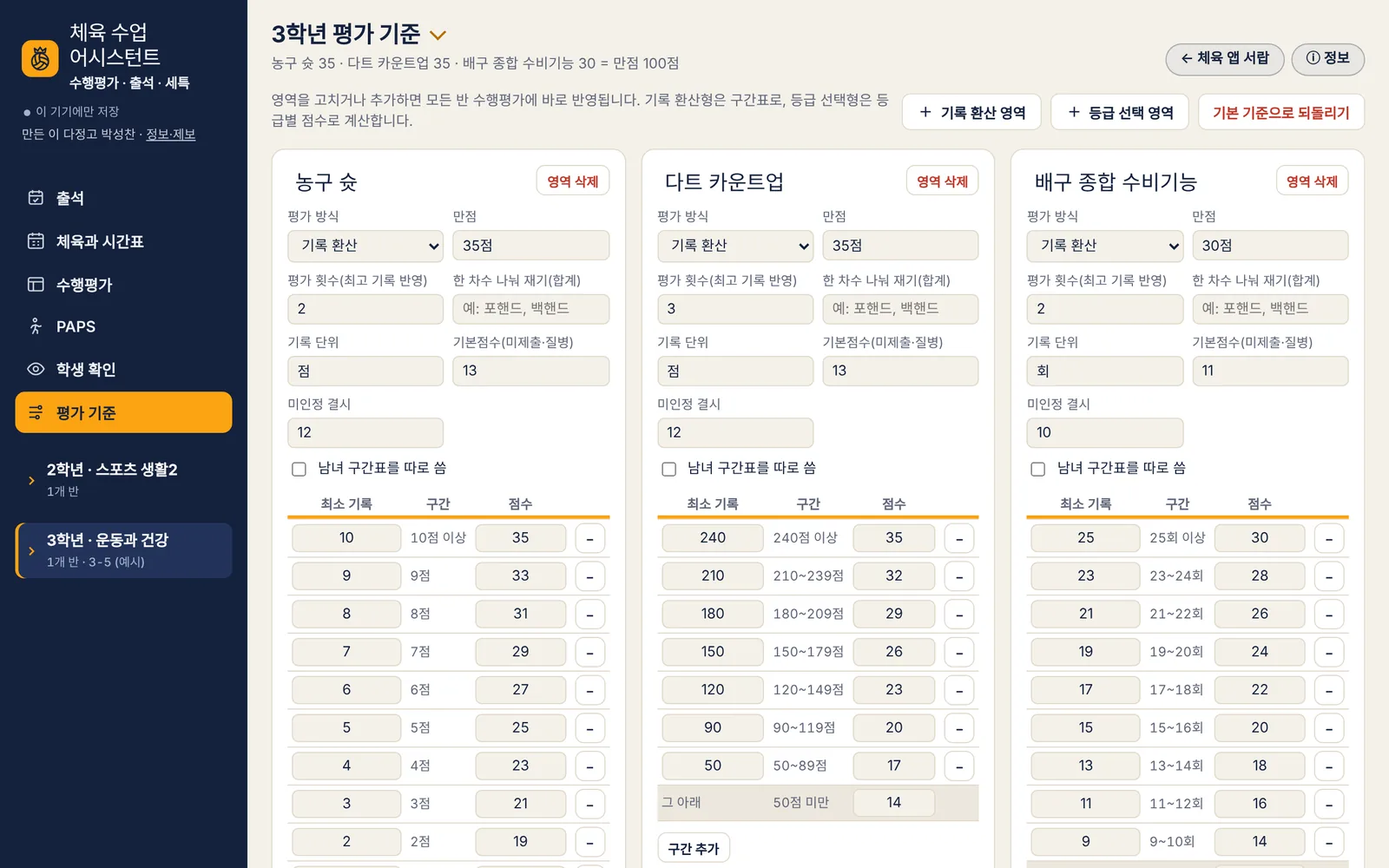
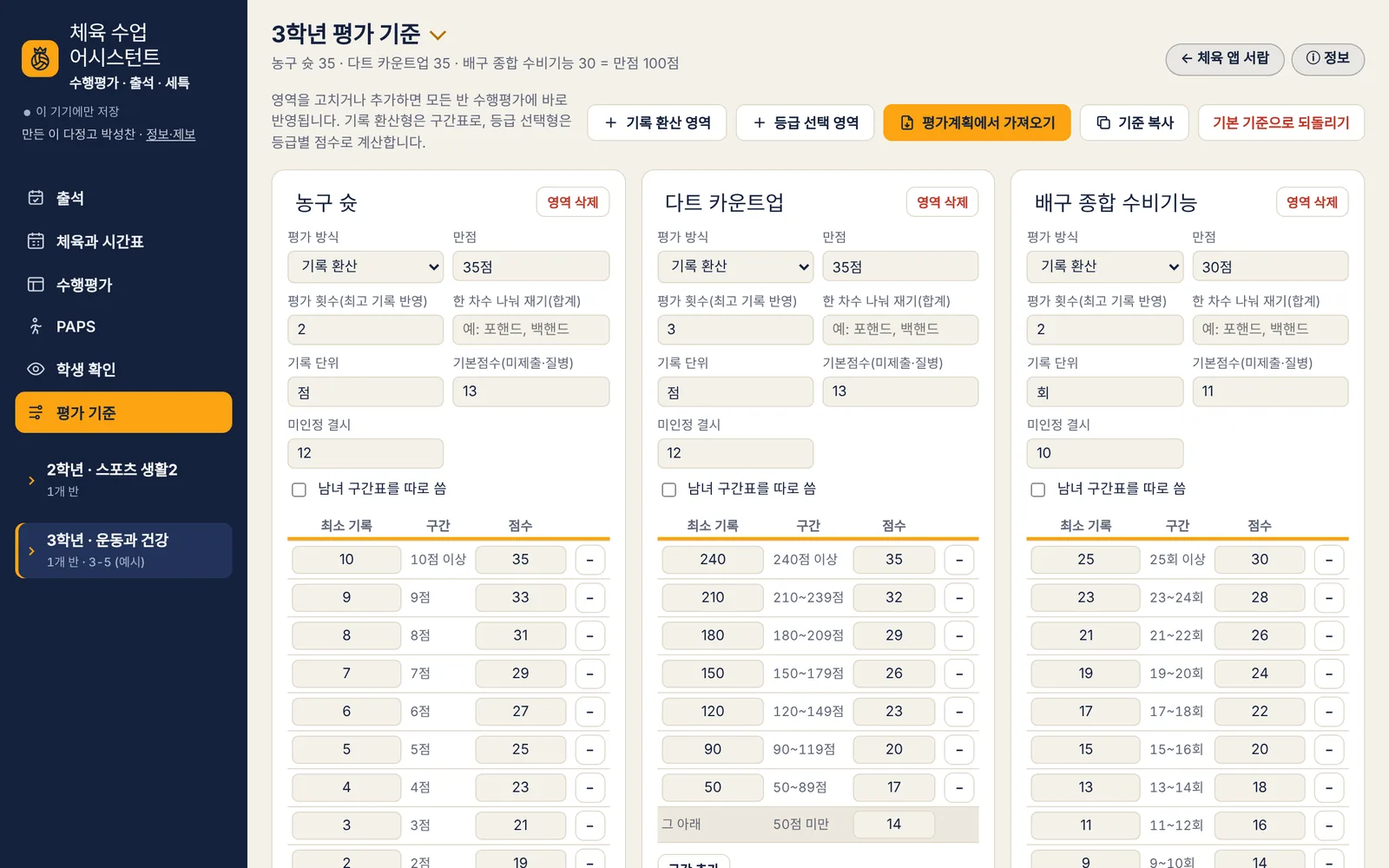
Add files via upload

diff --git a/guides/assistant.html b/guides/assistant.html
@@ -148,6 +148,24 @@ footer a{font-weight:700}
   a{color:inherit;text-decoration:none}
 }
 
+.setup{list-style:none;padding:0;margin:0;display:flex;flex-direction:column;gap:18px;counter-reset:su}
+.setup>li{counter-increment:su;display:grid;grid-template-columns:minmax(0,1fr) minmax(0,1.1fr);gap:20px;align-items:start;background:var(--tile);border-radius:22px;padding:22px;margin:0}
+.setup .su-t{display:flex;gap:10px;align-items:center;font-size:17px;font-weight:900;letter-spacing:-.02em;margin-bottom:6px}
+.setup .su-t::before{content:counter(su);width:30px;height:30px;flex:none;border-radius:50%;background:var(--ac);color:#fff;font-size:14px;display:flex;align-items:center;justify-content:center}
+.setup .su-d{font-size:14.5px;color:var(--ink-2)}
+.setup .su-d p{margin:0 0 8px}
+.setup .su-tips{margin:8px 0 0;padding:0;list-style:none;display:grid;gap:5px}
+.setup .su-tips li{margin:0;font-size:13.5px;padding-left:16px;position:relative;color:var(--ink-2)}
+.setup .su-tips li::before{content:"";position:absolute;left:3px;top:.62em;width:6px;height:6px;border-radius:50%;background:var(--ac)}
+.setup .su-img{display:flex;flex-direction:column;gap:10px}
+.setup .su-img a{display:block;border-radius:14px;overflow:hidden;border:1px solid var(--line);background:#fff;cursor:zoom-in}
+.setup .su-img img{display:block;width:100%;height:auto}
+.setup .tw{margin:10px 0 4px;background:#fff}
+.setup table{font-size:13px}
+.setup th,.setup td{padding:8px 10px}
+@media (max-width:760px){.setup>li{grid-template-columns:1fr;padding:18px}}
+@media print{.setup>li{break-inside:avoid;grid-template-columns:1fr 1fr}}
+
 .one{max-width:860px;margin:0 auto;padding:0 32px}
 .flow4{display:grid;grid-template-columns:repeat(2,minmax(0,1fr));gap:16px}
 .flow4 figure{margin:0;display:flex;flex-direction:column}
@@ -180,11 +198,12 @@ footer a{font-weight:700}
 </header>
 <div class="one"><main>
 <div class="hero"><div class="hero-ic" aria-hidden="true"><svg class="i" viewBox="0 0 24 24"><path d="M9 4h6v3H9z"/><path d="M15 5h2a2 2 0 0 1 2 2v12a2 2 0 0 1-2 2H7a2 2 0 0 1-2-2V7a2 2 0 0 1 2-2h2"/><path d="M9 12h6M9 16h4"/></svg></div><div><h1>체육 수업 어시스턴트 사용법</h1><p>출석부 파일로 반을 만들고 수행평가 기록·점수 환산, 출석, 학생 점수 확인, 관찰 메모·세특 초안, 나이스 업로드 파일까지 한 곳에서 처리해요.</p><div class="meta"><span class="chip">v1.0</span><span class="chip">설치·로그인 없음</span><span class="chip">기록은 이 기기에만 저장</span></div></div></div>
-<section class="s" style="margin-top:44px"><h2><span class="no">01</span>처음이라면</h2><ol class="steps"><li><div><b>예시 반으로 둘러보기</b><span>처음 열면 ‘3-5 (예시)’ 반이 들어 있어요. 왼쪽 메뉴의 탭을 하나씩 눌러 보세요.</span></div></li><li><div><b>둘러봤다면 ‘예시 지우기’</b><span>수행평가 화면 위쪽 노란 띠의 <span class="btnname">예시 지우기</span>를 누르면 예시 반이 사라져요.</span></div></li><li><div><b>명단 넣기에 출석부 엑셀 끌어다 놓기</b><span>나이스 출석부·수행평가 양식·성별 명렬표(.xlsx)를 넣으면 수업반별로 수행평가 표가 만들어져요. 여러 파일을 한 번에 넣어도 돼요.</span></div></li></ol></section>
-<section class="s"><h2><span class="no">02</span>이렇게 써요</h2><p class="lead">평가 기준을 정하고, 기록하고, 학생에게 확인받고, 나이스로 내보내는 순서예요.</p><div class="flow4"><figure><a class="shot" href="img/assistant/04-criteria.webp" target="_blank" rel="noopener" title="크게 보기"><img src="img/assistant/04-criteria.webp" alt="평가 기준 정하기" loading="lazy"></a><figcaption><b class="t"><i>1</i>평가 기준 정하기</b><span class="btnname">평가 기준</span>에서 영역마다 만점·평가 횟수·기록 단위·구간별 점수를 정해요. 기록 환산 영역과 등급 선택 영역을 섞어 쓸 수 있어요.</figcaption></figure><figure><a class="shot" href="img/assistant/01-assess.webp" target="_blank" rel="noopener" title="크게 보기"><img src="img/assistant/01-assess.webp" alt="기록 넣기" loading="lazy"></a><figcaption><b class="t"><i>2</i>기록 넣기</b><span class="btnname">수행평가</span>에 1차·2차 기록을 넣으면 가장 높은 기록이 점수로 환산돼요. 엑셀 한 열을 칸에 붙여 넣으면 아래로 채워져요.</figcaption></figure><figure><a class="shot" href="img/assistant/03-student.webp" target="_blank" rel="noopener" title="크게 보기"><img src="img/assistant/03-student.webp" alt="학생 확인" loading="lazy"></a><figcaption><b class="t"><i>3</i>학생 확인</b><span class="btnname">학생 확인</span>으로 학생에게 자기 점수를 한 명씩 보여 주고 <kbd>Enter</kbd>로 확인을 받아요. 관찰 메모도 이 화면에서 적어요.</figcaption></figure><figure><a class="shot" href="img/assistant/02-attend.webp" target="_blank" rel="noopener" title="크게 보기"><img src="img/assistant/02-attend.webp" alt="출석 체크" loading="lazy"></a><figcaption><b class="t"><i>4</i>출석 체크</b><span class="btnname">출석</span>에서 날짜를 추가해 체크하고, 나이스에 옮긴 날은 ‘나이스 입력 완료’로 표시해 둬요.</figcaption></figure></div></section>
-<section class="s"><h2><span class="no">03</span>알아 두면 좋은 기능</h2><ul class="chk"><li><b>상태 표시</b> — 정상(기록 환산) · 기본(참여했으나 미제출·장기 질병 결시) · 미인정(장기 미인정 결시)으로 학생마다 상태를 골라요.</li><li><b>측정 모드</b> — 휴대폰 한 화면에서 학생을 넘기며 기록만 빠르게 넣어요. 체육관에서 바로 입력할 때 좋아요.</li><li><b>나이스 파일 내려받기</b> — 환산 점수를 나이스 수행평가 업로드 양식으로 받아요.</li><li><b>··· 메뉴</b> — 세특 초안 모아 보기, 관찰 메모·세특 초안 엑셀 받기, 점수 변경 이력, 백업 파일 내려받기·불러오기, 반 추가·이름 변경.</li><li><b>체육과 시간표</b> — 나이스 인증키와 학교 정보를 한 번 설정하면 내 시간표와 다른 체육 선생님 시간표를 받아 와요.</li><li><b>PAPS 탭</b> — 같은 기기의 PAPS 기록부와 연결해 수업 중에도 PAPS 기록을 넣고 확인해요.</li></ul></section>
-<section class="s"><h2><span class="no">04</span>꼭 지켜 주세요</h2><div class="note warn"><svg class="i" viewBox="0 0 24 24" aria-hidden="true"><path d="M12 3l9 16H3z"/><path d="M12 10v4M12 17h.01"/></svg><div><ul><li>기록은 <b>입력한 기기의 브라우저에만</b> 저장돼요. 수업이 끝나면 ··· 메뉴에서 <b>백업 파일</b>을 받아 두세요.</li><li>같은 수업반 출석부를 다시 넣어도 이미 입력한 기록은 그대로 남아요. 명단이 바뀌었을 때 안심하고 다시 넣으세요.</li><li>학생 확인 화면을 TV에 띄울 때는 다른 학생 점수가 보이지 않는지 한 번 확인하세요.</li></ul></div></div></section>
-<section class="s"><h2><span class="no">05</span>내 수업에 맞게 고쳐 쓰기</h2>
+<section class="s" style="margin-top:44px"><h2><span class="no">01</span>처음이라면</h2><ol class="steps"><li><div><b>예시 반으로 둘러보기</b><span>처음 열면 ‘3-5 (예시)’ 반이 들어 있어요. 왼쪽 메뉴의 탭을 하나씩 눌러 보세요.</span></div></li><li><div><b>둘러봤다면 ‘예시 지우기’</b><span>수행평가 화면 위쪽 노란 띠의 <span class="btnname">예시 지우기</span>를 누르면 예시 반이 사라져요. 이어서 아래 ‘수행평가 세팅하기’ 순서대로 준비해요.</span></div></li></ol></section>
+<section class="s" id="setup"><h2><span class="no">02</span>수행평가 세팅하기</h2><p class="lead">평가계획을 넣어 기준을 만들고, 출석부로 반을 만들면 바로 기록할 수 있어요. 처음 한 번만 하면 학기 내내 그대로 써요.</p><ol class="setup"><li><div><div class="su-t">평가 기준을 넣을 학년 고르기</div><div class="su-d"><p>왼쪽 메뉴 아래의 <b>2학년 · 스포츠 생활2</b>, <b>3학년 · 운동과 건강</b>처럼 학년(과목)마다 평가 기준이 따로 있어요. 기준을 넣을 학년을 누르고 <span class="btnname">평가 기준</span> 탭을 열어요. 여기서 정한 기준은 그 학년의 모든 반 수행평가에 함께 쓰여요.</p></div></div><div class="su-img"><a href="img/assistant/s4-crit-after.webp" target="_blank" rel="noopener" title="크게 보기"><img src="img/assistant/s4-crit-after.webp" alt="평가 기준을 넣을 학년 고르기" loading="lazy"></a></div></li><li><div><div class="su-t">평가계획에서 가져오기 — AI에게 맡기기</div><div class="su-d"><p><span class="btnname">평가계획에서 가져오기</span> → <span class="btnname">AI 요청문 복사</span>를 누르고, 학교 평가계획(PDF·사진·한글 파일)과 복사한 요청문을 Claude 같은 AI 채팅에 함께 보내요. AI가 돌려준 답을 통째로 복사해 2번 칸에 붙여 넣고 <span class="btnname">미리보기</span>를 눌러요.</p><ul class="su-tips"><li>AI에는 평가계획만 올리세요. 학생 명단이나 점수 파일은 올리지 않아요.</li><li>AI 답에 설명 글이나 ```json 표시가 섞여 있어도 그대로 붙여 넣으면 돼요.</li></ul></div></div><div class="su-img"><a href="img/assistant/s1-import-paste.webp" target="_blank" rel="noopener" title="크게 보기"><img src="img/assistant/s1-import-paste.webp" alt="평가계획에서 가져오기 — AI에게 맡기기" loading="lazy"></a></div></li><li><div><div class="su-t">미리보기로 평가계획과 맞춰 보기</div><div class="su-d"><p>영역마다 구간표와 기본점수가 정리돼 보여요. 평가계획 표와 나란히 놓고 아래를 확인하세요.</p><ul class="su-tips"><li>맨 위 <b>합계</b>가 100점인지 (아니면 주황 글씨로 알려 줘요)</li><li>영역별 <b>배점</b>과 구간표 맨 위 점수</li><li>맨 끝 <b>그 아래</b> 점수 — ‘1개 이하’, ‘0개’ 같은 최저 구간</li><li>남녀 기준이 다르면 <b>남·여</b> 줄이 따로 있는지</li><li><b>기본점수</b>(미제출·질병)와 <b>미인정 결시</b> 점수</li><li>노란 <b>확인해 주세요</b> 상자가 있으면 그 내용</li></ul></div></div><div class="su-img"><a href="img/assistant/s2-import-preview.webp" target="_blank" rel="noopener" title="크게 보기"><img src="img/assistant/s2-import-preview.webp" alt="미리보기로 평가계획과 맞춰 보기" loading="lazy"></a></div></li><li><div><div class="su-t">적용하기</div><div class="su-d"><p><b>이 학년 기준을 이것으로 바꾸기</b>를 고르고 <span class="btnname">적용</span>. 이름이 같은 영역의 학생 기록은 그대로 남아요. 기존 영역에 하나만 더할 때는 <b>지금 기준 뒤에 영역으로 더하기</b>를 골라요.</p><ul class="su-tips"><li>학생 기록이 있는 영역이 새 기준에서 빠지면 적용 전에 한 번 더 물어봐요.</li><li>기록이 있는 영역은 평가 횟수가 바뀌지 않게 지켜요.</li></ul></div></div><div class="su-img"><a href="img/assistant/s3-import-apply.webp" target="_blank" rel="noopener" title="크게 보기"><img src="img/assistant/s3-import-apply.webp" alt="적용하기" loading="lazy"></a></div></li><li><div><div class="su-t">평가 기준 화면에서 다듬기</div><div class="su-d"><p>가져온 기준은 칸을 눌러 바로 고칠 수 있어요. AI 없이 처음부터 만들 때는 <span class="btnname">+ 기록 환산 영역</span> / <span class="btnname">+ 등급 선택 영역</span>으로 추가해요.</p><div class="tw"><table><thead><tr><th>평가 방식</th><th>이럴 때</th><th>정하는 것</th></tr></thead><tbody><tr><td>기록 환산</td><td>성공 개수·횟수·점수·거리처럼 기록 구간으로 점수를 줄 때</td><td>최소 기록 → 점수 구간표, ‘그 아래’ 점수, 평가 횟수(최고 기록 반영), 기록 단위</td></tr><tr><td>등급 선택</td><td>채점 항목마다 기준을 골라 점수를 더할 때 (글쓰기·발표 등)</td><td>항목과 기준별 점수</td></tr><tr><td>점수 직접 입력</td><td>위 둘로 나타내기 어려울 때</td><td>만점, 입력 가능한 최저 점수</td></tr></tbody></table></div><ul class="su-tips"><li><b>평가 횟수</b>: 여러 번 측정해 가장 높은 기록을 반영해요.</li><li><b>한 차수 나눠 재기</b>: ‘포핸드, 백핸드’처럼 적으면 한 번 측정할 때 두 칸에 나눠 넣고 합계로 점수를 내요.</li><li><b>남녀 구간표를 따로 씀</b>: 남학생·여학생 구간표가 따로 생겨요.</li></ul></div></div><div class="su-img"><a href="img/assistant/04-criteria.webp" target="_blank" rel="noopener" title="크게 보기"><img src="img/assistant/04-criteria.webp" alt="평가 기준 화면에서 다듬기" loading="lazy"></a></div></li><li><div><div class="su-t">명단 넣기</div><div class="su-d"><p><span class="btnname">수행평가</span> 탭 → <span class="btnname">명단 넣기</span>에 나이스 출석부 엑셀을 끌어다 놓으면 수업반별로 수행평가 표가 만들어져요. 여러 반 파일을 한 번에 넣어도 돼요.</p><ul class="su-tips"><li>학년 전체 명렬표(학년·반·번호·성명·성별)를 함께 넣으면 성별이 채워져 남녀 구간표가 적용돼요.</li><li>나이스에서 내려받은 빈 수행평가 양식을 넣어 두면 나중에 나이스 파일의 영역 이름이 정확히 맞아요.</li><li>같은 반 출석부를 다시 넣어도 입력한 기록은 그대로 남아요.</li></ul></div></div><div class="su-img"><a href="img/assistant/s5-roster.webp" target="_blank" rel="noopener" title="크게 보기"><img src="img/assistant/s5-roster.webp" alt="명단 넣기" loading="lazy"></a></div></li><li><div><div class="su-t">기록하고 나이스로 내보내기</div><div class="su-d"><p>표의 1차·2차 칸에 기록을 넣으면 점수가 바로 환산돼요. 체육관에서는 <span class="btnname">측정 모드</span>로 휴대폰에서 한 명씩 넘기며 넣어요. 평가가 끝나면 <span class="btnname">나이스 파일 내려받기</span>에서 영역이 ‘맞음’인지 확인하고 .xlsx로 받아 나이스에 올려요.</p><ul class="su-tips"><li>상태: <b>정상</b>(기록으로 환산) · <b>기본</b>(참여했으나 미제출·장기 질병 결시 → 기본점수) · <b>미인정</b>(장기 미인정 결시 → 기본점수−1)</li><li>엑셀 한 열을 복사해 칸에 붙여 넣으면 아래로 한 번에 채워져요.</li></ul></div></div><div class="su-img"><a href="img/assistant/01-assess.webp" target="_blank" rel="noopener" title="크게 보기"><img src="img/assistant/01-assess.webp" alt="기록하고 나이스로 내보내기" loading="lazy"></a><a href="img/assistant/s7-export.webp" target="_blank" rel="noopener" title="크게 보기"><img src="img/assistant/s7-export.webp" alt="기록하고 나이스로 내보내기" loading="lazy"></a></div></li></ol></section>
+<section class="s"><h2><span class="no">03</span>수업 중에 쓰기</h2><p class="lead">세팅이 끝나면 수업 시간에는 이렇게 써요.</p><div class="flow4"><figure><a class="shot" href="img/assistant/03-student.webp" target="_blank" rel="noopener" title="크게 보기"><img src="img/assistant/03-student.webp" alt="학생 확인" loading="lazy"></a><figcaption><b class="t"><i>1</i>학생 확인</b><span class="btnname">학생 확인</span>으로 학생에게 자기 점수를 한 명씩 보여 주고 <kbd>Enter</kbd>로 확인을 받아요. 관찰 메모도 이 화면에서 적어요.</figcaption></figure><figure><a class="shot" href="img/assistant/s6-measure.webp" target="_blank" rel="noopener" title="크게 보기"><img src="img/assistant/s6-measure.webp" alt="측정 모드" loading="lazy"></a><figcaption><b class="t"><i>2</i>측정 모드</b>휴대폰 한 화면에서 학생을 넘기며 −1/+1로 기록하고, 상태와 관찰 태그(기능 향상, 협력·배려 등)를 눌러 둬요.</figcaption></figure><figure><a class="shot" href="img/assistant/02-attend.webp" target="_blank" rel="noopener" title="크게 보기"><img src="img/assistant/02-attend.webp" alt="출석 체크" loading="lazy"></a><figcaption><b class="t"><i>3</i>출석 체크</b><span class="btnname">출석</span>에서 날짜를 추가해 체크하고, 나이스에 옮긴 날은 ‘나이스 입력 완료’로 표시해 둬요.</figcaption></figure><figure><a class="shot" href="img/assistant/05-time.webp" target="_blank" rel="noopener" title="크게 보기"><img src="img/assistant/05-time.webp" alt="체육과 시간표" loading="lazy"></a><figcaption><b class="t"><i>4</i>체육과 시간표</b>나이스 인증키와 학교 정보를 한 번 설정하면 내 시간표와 다른 체육 선생님 시간표를 받아 와요.</figcaption></figure></div></section>
+<section class="s"><h2><span class="no">04</span>알아 두면 좋은 기능</h2><ul class="chk"><li><b>기준 복사</b> — 지금 평가 기준을 글로 복사해 동료 선생님께 보내면, 그대로 ‘평가계획에서 가져오기’에 붙여 넣어 쓸 수 있어요.</li><li><b>··· 메뉴</b> — 세특 초안 모아 보기, 관찰 메모·세특 초안 엑셀 받기, 점수 변경 이력, 백업 파일 내려받기·불러오기, 반 추가·이름 변경.</li><li><b>PAPS 탭</b> — 같은 기기의 PAPS 기록부와 연결해 수업 중에도 PAPS 기록을 넣고 확인해요.</li></ul></section>
+<section class="s"><h2><span class="no">05</span>꼭 지켜 주세요</h2><div class="note warn"><svg class="i" viewBox="0 0 24 24" aria-hidden="true"><path d="M12 3l9 16H3z"/><path d="M12 10v4M12 17h.01"/></svg><div><ul><li>기록은 <b>입력한 기기의 브라우저에만</b> 저장돼요. 수업이 끝나면 ··· 메뉴에서 <b>백업 파일</b>을 받아 두세요.</li><li>같은 수업반 출석부를 다시 넣어도 이미 입력한 기록은 그대로 남아요. 명단이 바뀌었을 때 안심하고 다시 넣으세요.</li><li>학생 확인 화면을 TV에 띄울 때는 다른 학생 점수가 보이지 않는지 한 번 확인하세요.</li></ul></div></div></section>
+<section class="s"><h2><span class="no">06</span>내 수업에 맞게 고쳐 쓰기</h2>
 <p><span class="btnname">HTML 받기</span>로 파일을 받아 Claude 같은 AI에게 첨부하고, 바꾸고 싶은 점을 한 가지씩 말해 보세요. 고친 파일은 더블클릭으로 바로 써요.</p>
 <div class="prompt"><span class="lbl">예시</span>첨부한 체육 수업 어시스턴트의 수행평가 표에서 총점 옆에 ‘반 평균과의 차이’ 열을 추가해 줘. 나이스 파일 내려받기에는 이 열이 들어가지 않게 해 줘.<button type="button">복사</button></div>
 <p style="font-size:14px;color:var(--ink-2)">원본 파일은 따로 보관하고, 학생 이름이 담긴 백업 파일은 AI에 올리지 마세요.</p></section>

diff --git a/apps/assistant.html b/apps/assistant.html
@@ -380,6 +380,24 @@ tbody tr:hover td.tot{background:var(--accent-soft)}
 .panel h2{font-family:var(--f-display);font-weight:400;font-size:20px;margin:0}
 .panel p{margin:0;color:var(--muted);font-size:13px;max-width:70ch}
 textarea{width:100%;min-height:150px;border:1px solid var(--line);background:var(--bg);border-radius:8px;padding:10px;font-variant-numeric:tabular-nums}
+.ci-step{display:grid;grid-template-columns:28px minmax(0,1fr);gap:10px;align-items:start}
+.ci-step>b{width:26px;height:26px;border-radius:50%;background:var(--navy);color:#fff;display:flex;align-items:center;justify-content:center;font-size:13px}
+.ci-step p{margin:2px 0 6px}
+.ci-tx{width:100%;min-height:130px;resize:vertical;font:13px/1.5 ui-monospace,SFMono-Regular,Menlo,Consolas,monospace;padding:10px 12px;box-sizing:border-box}
+.ci-prompt{white-space:pre-wrap;font-size:12.5px;line-height:1.55;background:var(--bg);border-radius:10px;padding:10px 12px;max-height:220px;overflow:auto;margin:6px 0 0}
+.ci-prev{display:flex;flex-direction:column;gap:8px}
+.ci-area{border:1px solid var(--line);border-radius:12px;padding:10px 12px;display:flex;flex-direction:column;gap:4px}
+.ci-area h4{margin:0;font-size:15px;display:flex;gap:8px;align-items:baseline;flex-wrap:wrap}
+.ci-area h4 em{font-style:normal;font-size:12px;font-weight:600;color:var(--muted)}
+.ci-area .ci-kv{font-size:13px;color:var(--muted)}
+.ci-rows{display:flex;flex-wrap:wrap;gap:4px;font-size:12px}
+.ci-rows span{background:var(--bg);border-radius:6px;padding:2px 7px;white-space:nowrap}
+.ci-warn{background:#FEF6E7;color:#6B3A07;border-radius:10px;padding:8px 12px;font-size:13px}
+.ci-warn ul{margin:4px 0 0;padding-left:18px}
+.ci-err{background:#FDECEC;color:#8A1C1C;border-radius:10px;padding:8px 12px;font-size:13px}
+.ci-total{font-weight:700}
+.ci-sub{font-size:12.5px;color:var(--muted)}
+.ci-mode{display:flex;flex-direction:column;gap:4px;font-size:14px}
 .crit{display:grid;grid-template-columns:repeat(auto-fit,minmax(300px,1fr));gap:14px;align-items:start}
 .card{background:var(--surface);border:1px solid var(--line);border-radius:12px;padding:14px;display:flex;flex-direction:column;gap:10px;min-width:0}
 .card .head{display:flex;gap:8px;align-items:center}
@@ -1631,6 +1649,8 @@ th.at small.sp{display:block;font-size:11px;font-weight:600;line-height:1.1;opac
       <p class="sub" style="margin:0;flex:1;min-width:220px">영역을 고치거나 추가하면 모든 반 수행평가에 바로 반영됩니다. 기록 환산형은 구간표로, 등급 선택형은 등급별 점수로 계산합니다.</p>
       <button class="btn" id="addRecordArea"><svg viewBox="0 0 24 24"><path d="M12 5v14M5 12h14"/></svg>기록 환산 영역</button>
       <button class="btn" id="addGradeArea"><svg viewBox="0 0 24 24"><path d="M12 5v14M5 12h14"/></svg>등급 선택 영역</button>
+      <button class="btn primary" id="critImport"><svg viewBox="0 0 24 24"><path d="M14 3H7a2 2 0 0 0-2 2v14a2 2 0 0 0 2 2h10a2 2 0 0 0 2-2V8z"/><path d="M14 3v5h5M12 18v-6M9 15l3 3 3-3"/></svg>평가계획에서 가져오기</button>
+      <button class="btn" id="critExport"><svg viewBox="0 0 24 24"><rect x="8" y="8" width="12" height="12" rx="2"/><path d="M16 8V6a2 2 0 0 0-2-2H6a2 2 0 0 0-2 2v8a2 2 0 0 0 2 2h2"/></svg>기준 복사</button>
       <button class="btn danger" id="resetCrit">기본 기준으로 되돌리기</button>
     </div>
     <div class="crit" id="critList"></div>
@@ -2538,6 +2558,163 @@ $('critList').addEventListener('click',e=>{
   }else return;
   save();renderCrit();renderClassSel();renderSheet();
 });
+
+/* ---------- 평가계획에서 기준 가져오기 · 기준 복사 ---------- */
+const CI_FMT='pe-criteria-v1';
+const CI_PROMPT=`첨부한 평가계획에서 수행평가 영역별 채점 기준을 찾아, 아래 형식의 JSON 하나로만 답해 주세요. 설명 문장 없이 JSON만 주세요.
+
+[규칙]
+1. 영역마다 type을 하나 고릅니다.
+ - "record"(기록 환산): 성공 개수·횟수·점수·거리처럼 기록 구간에 따라 점수를 주는 영역.
+   · rows: [최소 기록, 점수]를 높은 기록부터. "12개 이상"은 [12, 점수], "10~11개"는 아래쪽 숫자 [10, 점수].
+   · below: 가장 낮은 구간("1개 이하", "49점 이하", "0개" 등)의 점수.
+   · 남녀 기준이 다르면 rows·below는 남학생, rowsF·belowF는 여학생 기준.
+   · unit: 기록 단위(개, 회, 점, m 등).
+   · rounds: 평가 기회 수(여러 번 측정해 가장 높은 기록을 반영하는 횟수). 한 번이면 1.
+   · split: 한 번 측정할 때 여러 부분 기록을 더해 쓰는 경우에만(예: 포핸드 5회 + 백핸드 5회) ["포핸드","백핸드"]처럼 적습니다. 아니면 빼세요.
+ - "grade"(등급 선택): 채점 항목마다 기준 문장을 골라 점수를 더하는 영역. items 안에 항목마다 options를 [기준 요약, 점수]로, 높은 점수부터.
+ - "score"(점수 직접 입력): 위 둘로 나타낼 수 없는 영역. max는 만점, min은 수행평가에 참여한 학생이 받는 최저 점수.
+2. base: "수행과정에는 참여했으나 결과물 미제출·장기 질병 결시" 기본점수. absent: "장기 미인정 결시" 점수. 괄호 속 백분율은 빼고 숫자만.
+3. max: 평가계획에 적힌 영역 배점(만점).
+4. 기록이 낮을수록 좋은 영역(달리기 시간 등)은 "score"로 적고 note에 그 사실을 적습니다.
+5. 대체 영역, 장애 학생 등 조정 기준은 넣지 않습니다.
+6. 숫자를 확신하기 어렵거나 표가 잘려 보이면 그 영역의 note에 적어 주세요.
+
+[형식]
+{"format":"${CI_FMT}","areas":[
+ {"name":"탁구 서브","type":"record","max":30,"unit":"개","rounds":3,"rows":[[12,30],[10,27],[8,24]],"below":12,"base":9,"absent":8},
+ {"name":"탁구 스트로크","type":"record","max":30,"unit":"개","rounds":3,"rows":[[50,30],[40,28]],"below":12,"rowsF":[[30,30],[25,28]],"belowF":12,"base":10,"absent":9},
+ {"name":"배드민턴 헤어핀","type":"record","max":30,"unit":"개","rounds":2,"split":["포핸드","백핸드"],"rows":[[10,30],[9,28]],"below":10,"base":8,"absent":7},
+ {"name":"글쓰기","type":"grade","max":10,"items":[{"name":"입장과 근거","options":[["입장과 근거 모두 명확",5],["둘 중 하나만",4]]},{"name":"분량","options":[["300자 이상",5],["200~299자",4]]}],"base":3,"absent":2}
+]}
+(위 숫자는 형식 예시입니다. 실제 값은 첨부한 평가계획에서 가져오세요.)`;
+const ciNum=v=>{if(typeof v==='number')return isFinite(v)?v:NaN;const m=String(v??'').replace(/,/g,'').match(/-?\d+(?:\.\d+)?/);return m?Number(m[0]):NaN};
+const ciNn=t=>String(t||'').replace(/\s+/g,'').toLowerCase();
+function ciExtract(txt){
+  let t=String(txt||'').replace(/[“”]/g,'"').replace(/[‘’]/g,"'").replace(/```[a-zA-Z]*/g,'');
+  const a=t.indexOf('{'),b=t.lastIndexOf('}');if(a<0||b<=a)throw new Error('붙여 넣은 글에서 { … } 형식을 찾지 못했습니다. AI 답을 처음부터 끝까지 그대로 붙여 넣어 주세요.');
+  t=t.slice(a,b+1);
+  try{return JSON.parse(t)}catch(e){
+    try{return JSON.parse(t.replace(/,\s*([}\]])/g,'$1'))}catch(e2){throw new Error('형식이 조금 어긋나 읽지 못했습니다. AI에게 “JSON 형식만 다시 보여 줘”라고 요청한 뒤 다시 붙여 넣어 주세요.')}
+  }
+}
+function ciRows(arr,lbl,warn){
+  if(!Array.isArray(arr)||!arr.length)return null;
+  const rows=arr.map(r=>Array.isArray(r)?{min:ciNum(r[0]),score:ciNum(r[1])}:{min:ciNum(r&&r.min),score:ciNum(r&&r.score)}).filter(r=>!isNaN(r.min)&&!isNaN(r.score));
+  if(rows.length!==arr.length)warn.push(`${lbl}: 숫자가 아닌 구간 ${arr.length-rows.length}개는 뺐습니다`);
+  rows.sort((x,y)=>y.min-x.min);
+  for(let i=1;i<rows.length;i++){if(rows[i].min===rows[i-1].min)warn.push(`${lbl}: 최소 기록 ${rows[i].min}이 두 번 나옵니다`);if(rows[i].score>rows[i-1].score)warn.push(`${lbl}: 기록이 낮은데 점수가 더 높은 구간이 있습니다 (${rows[i].min} → ${rows[i].score}점)`)}
+  return rows;
+}
+function ciParse(txt){
+  const raw=ciExtract(txt);const list=Array.isArray(raw)?raw:(raw.areas||raw.criteria||raw['영역']);
+  if(!Array.isArray(list)||!list.length)throw new Error('영역(areas) 목록이 비어 있습니다.');
+  const out=[];
+  list.forEach((x,k)=>{
+    const warn=[],errs=[];const name=String(x.name||x['영역명']||'').trim()||`영역 ${k+1}`;
+    let type=String(x.type||'').trim();type={'기록 환산':'record','기록':'record','등급 선택':'grade','등급':'grade','점수 직접 입력':'score','점수':'score'}[type]||type;
+    const a={name,type};
+    if(type==='record'){
+      a.unit=String(x.unit||'').trim();
+      const rounds=Math.max(1,Math.min(6,Math.round(ciNum(x.rounds??x.attempts??1))||1));
+      const split=Array.isArray(x.split)?x.split.map(v=>String(v).trim()).filter(Boolean):[];
+      if(split.length>1){a.split=split;a.splitAuto=1}
+      a.attempts=rounds*(split.length>1?split.length:1);
+      a.rows=ciRows(x.rows,'구간',warn);a.below=ciNum(x.below);
+      if(!a.rows)errs.push('기록 구간(rows)이 없습니다');
+      if(isNaN(a.below)){if(a.rows&&a.rows.length){a.below=a.rows[a.rows.length-1].score;warn.push('가장 낮은 구간 점수(below)가 없어 마지막 구간 점수로 두었습니다')}else a.below=0}
+      if(x.rowsF){a.rowsF=ciRows(x.rowsF,'여학생 구간',warn);a.belowF=ciNum(x.belowF);if(a.rowsF){a.bySex=true;if(isNaN(a.belowF))a.belowF=a.below}else delete a.rowsF}
+      if(a.rows&&a.rows.some(r=>r.score<=a.below))warn.push('가장 낮은 구간 점수가 위 구간 점수보다 낮지 않습니다');
+    }else if(type==='grade'){
+      const items=Array.isArray(x.items)?x.items:(Array.isArray(x.options)?[{name:'등급',options:x.options}]:[]);
+      a.items=items.map((it,ii)=>({name:String(it.name||`항목 ${ii+1}`).trim(),options:(it.options||[]).map(o=>Array.isArray(o)?{label:String(o[0]??'').trim(),score:ciNum(o[1])}:{label:String(o.label??o.name??'').trim(),score:ciNum(o.score)}).filter(o=>!isNaN(o.score)).sort((p,q)=>q.score-p.score)})).filter(it=>it.options.length);
+      if(!a.items.length)errs.push('등급 기준(items)이 없습니다');
+    }else if(type==='score'){
+      a.max=ciNum(x.max);a.min=ciNum(x.min);if(isNaN(a.max))errs.push('만점(max)이 없습니다');if(isNaN(a.min))a.min=0;
+    }else errs.push(`평가 방식(type) “${x.type||''}”을 알 수 없습니다`);
+    a.base=ciNum(x.base);a.absent=ciNum(x.absent);
+    if(isNaN(a.base)){a.base=0;warn.push('기본점수(base)가 없어 0으로 두었습니다')}
+    if(isNaN(a.absent)){a.absent=Math.max(0,a.base-1);warn.push(`미인정 결시 점수(absent)가 없어 기본점수−1(${a.absent})로 두었습니다`)}
+    if(!errs.length){const m=maxOf(a),st=ciNum(x.max);a._max=m;if(!isNaN(st)&&st!==m)warn.push(`평가계획 배점은 ${st}점인데 구간표 최고 점수는 ${m}점입니다`)}
+    if(x.note)warn.push('AI 메모: '+String(x.note));
+    out.push({a,warn,errs});
+  });
+  return out;
+}
+function ciRowsTxt(rows,below,unit){return rows.map(r=>`<span>${esc(r.min)}${esc(unit)}↑ ${esc(r.score)}</span>`).join('')+`<span>그 아래 ${esc(below)}</span>`}
+function ciPreview(list){
+  const okN=list.filter(x=>!x.errs.length).length,total=list.filter(x=>!x.errs.length).reduce((t,x)=>t+x.a._max,0);
+  const cur=CR(),names=new Set(cur.map(c=>ciNn(c.name)));
+  let h=list.map(({a,warn,errs})=>{
+    let body='';
+    if(!errs.length){
+      if(a.type==='record'){
+        body=`<div class="ci-kv">기록 환산 · ${a.attempts/(a.split?a.split.length:1)}회 측정(최고 기록)${a.split?` · 한 번에 ${esc(a.split.join('+'))} 합계`:''} · 단위 ${esc(a.unit||'-')}</div>`+
+          `<div class="ci-rows">${a.bySex?'<b style="font-size:12px">남</b>':''}${ciRowsTxt(a.rows,a.below,a.unit)}</div>`+
+          (a.bySex?`<div class="ci-rows"><b style="font-size:12px">여</b>${ciRowsTxt(a.rowsF,a.belowF,a.unit)}</div>`:'');
+      }else if(a.type==='grade'){
+        body=`<div class="ci-kv">등급 선택 · 항목 ${a.items.length}개 (항목 점수를 더함)</div>`+a.items.map(it=>`<div class="ci-rows"><b style="font-size:12px">${esc(it.name)}</b>${it.options.map(o=>`<span>${esc(o.label)} ${esc(o.score)}</span>`).join('')}</div>`).join('');
+      }else body=`<div class="ci-kv">점수 직접 입력 · ${esc(a.min)}~${esc(a.max)}점</div>`;
+      body+=`<div class="ci-kv">기본점수(미제출·질병) ${esc(a.base)} · 미인정 결시 ${esc(a.absent)}</div>`;
+    }
+    return `<div class="ci-area"><h4>${esc(a.name)} <em>${errs.length?'읽지 못함':a._max+'점'}${!errs.length&&names.has(ciNn(a.name))?' · 지금 기준에 같은 이름 있음':''}</em></h4>${body}`+
+      (errs.length?`<div class="ci-err">${errs.map(esc).join('<br>')}</div>`:'')+(warn.length?`<div class="ci-warn">확인해 주세요<ul>${warn.map(w=>`<li>${esc(w)}</li>`).join('')}</ul></div>`:'')+`</div>`;
+  }).join('');
+  h=`<p class="ci-total">영역 ${okN}개 · 합계 ${total}점${total!==100?' <span style="color:#B45309;font-weight:600">(100점이 아닙니다 — 평가계획을 확인해 주세요)</span>':''}</p>`+h;
+  return h;
+}
+let ciList=null;
+function openCritImport(){
+  const g=curSet();
+  openDlg(`평가계획에서 기준 가져오기 · ${g.label}`,`
+    <div class="ci-step"><b>1</b><div><p>평가계획(PDF·사진·한글 파일)을 Claude 같은 AI 채팅에 올리고, 아래 요청문을 함께 보내세요.</p>
+      <div class="row"><button class="btn primary" id="ciCopy">AI 요청문 복사</button><span class="ci-sub">앱은 파일을 어디로도 보내지 않아요. AI에는 평가계획만 올리세요.</span></div>
+      <details><summary class="ci-sub" style="cursor:pointer;margin-top:6px">요청문 보기</summary><div class="ci-prompt">${esc(CI_PROMPT)}</div></details></div></div>
+    <div class="ci-step"><b>2</b><div><p>AI가 돌려준 답을 그대로 붙여 넣고 <b>미리보기</b>를 누르세요.</p>
+      <textarea class="ci-tx field" id="ciText" placeholder='{"format":"${CI_FMT}","areas":[ … ]}' spellcheck="false"></textarea>
+      <div class="row" style="margin-top:6px"><button class="btn" id="ciParse">미리보기</button></div></div></div>
+    <div class="ci-step"><b>3</b><div><p>평가계획과 맞는지 확인하고 적용하세요.</p><div class="ci-prev" id="ciPrev"><p class="ci-sub">아직 미리보기가 없습니다.</p></div>
+      <div id="ciApplyBox" hidden><div class="ci-mode" style="margin:8px 0">
+        <label><input type="radio" name="ciMode" value="replace" checked> ${esc(g.label)} 기준을 이것으로 바꾸기 <span class="ci-sub">— 이름이 같은 영역의 학생 기록은 그대로 둡니다</span></label>
+        <label><input type="radio" name="ciMode" value="add"> 지금 기준 뒤에 영역으로 더하기</label></div>
+        <div class="row"><button class="btn primary" id="ciApply">적용</button></div></div></div></div>`);
+  ciList=null;
+  $('ciCopy').addEventListener('click',()=>copyText(CI_PROMPT));
+  $('ciParse').addEventListener('click',()=>{
+    try{ciList=ciParse($('ciText').value);$('ciPrev').innerHTML=ciPreview(ciList);$('ciApplyBox').hidden=!ciList.some(x=>!x.errs.length)}
+    catch(e){ciList=null;$('ciPrev').innerHTML=`<div class="ci-err">${esc(e.message)}</div>`;$('ciApplyBox').hidden=true}
+  });
+  $('ciApply').addEventListener('click',()=>{
+    if(!ciList)return;const ok=ciList.filter(x=>!x.errs.length).map(x=>x.a);if(!ok.length)return;
+    const mode=(document.querySelector('input[name=ciMode]:checked')||{}).value||'replace';
+    const cur=CR(),kept=[];let keptRec=0;
+    const fresh=ok.map(a=>{const b=JSON.parse(JSON.stringify(a));delete b._max;
+      const old=cur.find(c=>ciNn(c.name)===ciNn(b.name));
+      if(mode==='replace'&&old){b.id=old.id;
+        if(old.type==='record'&&b.type==='record'&&spUsed(old)&&(spN(old)!==spN(b)||old.attempts!==b.attempts)){b.attempts=old.attempts;if(old.split)b.split=old.split;else delete b.split;kept.push(b.name)}
+        if(spUsed(old))keptRec++;
+      }else b.id=uid();
+      return normArea(b)});
+    const set=curSet();
+    if(mode==='replace'){const lost=cur.filter(c=>!fresh.some(f=>f.id===c.id)&&spUsed(c));
+      if(lost.length&&!confirm(`지금 기준의 ${lost.map(c=>'‘'+c.name+'’').join(', ')} 영역에는 학생 기록이 있습니다. 새 기준에 같은 이름이 없어 수행평가 표에서 빠집니다. 계속할까요?`))return;
+      set.criteria=fresh}
+    else set.criteria=cur.concat(fresh);
+    save();closeDlg();renderCrit();renderClassSel();renderSheet();
+    toast(`${set.label} 평가 기준 ${fresh.length}개 영역을 ${mode==='replace'?'바꿨습니다':'더했습니다'}${kept.length?` · 기록이 있는 ${kept.join(', ')}은 평가 횟수를 그대로 두었습니다`:''}`);
+  });
+}
+function critToText(){
+  const areas=CR().map(a=>{const o={name:a.name,type:a.type,max:maxOf(a)};
+    if(a.type==='record'){o.unit=a.unit||'';o.rounds=a.attempts/spN(a);if(spN(a)>1)o.split=a.split;o.rows=a.rows.map(r=>[+r.min,+r.score]);o.below=+a.below;if(a.bySex){o.rowsF=(a.rowsF||[]).map(r=>[+r.min,+r.score]);o.belowF=+a.belowF}}
+    else if(a.type==='grade')o.items=a.items.map(it=>({name:it.name,options:it.options.map(p=>[p.label,+p.score])}));
+    else{o.max=+a.max;o.min=+(a.min??0)}
+    o.base=+a.base;o.absent=+a.absent;return o});
+  return JSON.stringify({format:CI_FMT,set:curSet().label,areas});
+}
+$('critImport').addEventListener('click',openCritImport);
+$('critExport').addEventListener('click',()=>{copyText(critToText());});
+
 $('addRecordArea').addEventListener('click',()=>{CR().push({id:uid(),name:'새 실기 영역',type:'record',unit:'회',attempts:2,rows:[{min:20,score:30},{min:15,score:27},{min:10,score:24}],below:21,base:11,absent:10});save();renderCrit();renderClassSel();renderSheet()});
 $('addGradeArea').addEventListener('click',()=>{CR().push({id:uid(),name:'새 등급 영역',type:'grade',items:[{name:'등급',options:[{label:'A',score:20},{label:'B',score:17},{label:'C',score:14},{label:'D',score:11}]}],base:8,absent:7});save();renderCrit();renderClassSel();renderSheet()});
 $('resetCrit').addEventListener('click',e=>{
